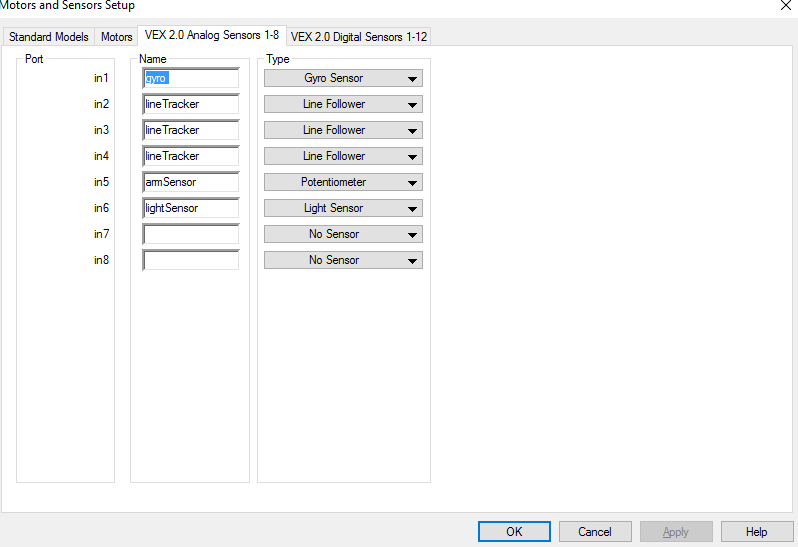
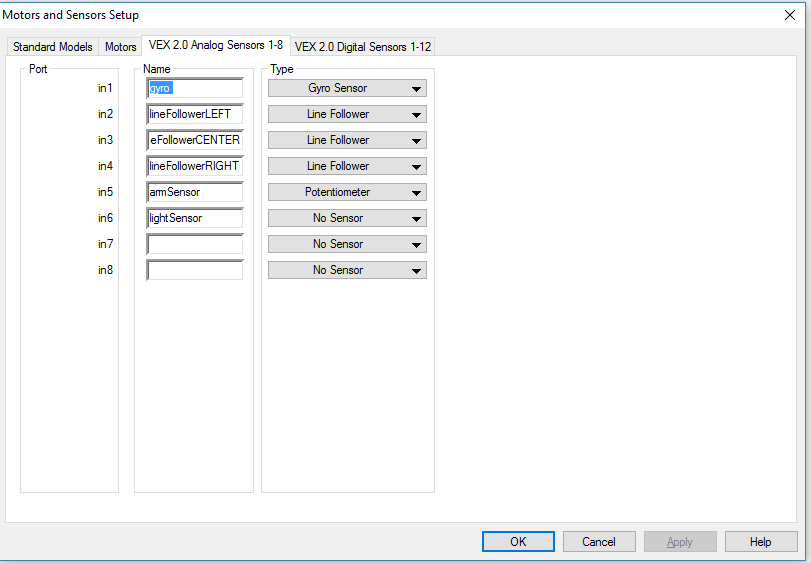
Added stuff for assignment 5 and 6

diff --git a/Verkefni_6_skil/verkefni6.c b/Verkefni_6_skil/verkefni6.c
@@ -1,0 +1,126 @@
+#pragma config(Sensor, in1,    gyro,           sensorGyro)
+#pragma config(Sensor, in2,    lineFollowerLEFT, sensorLineFollower)
+#pragma config(Sensor, in3,    lineFollowerCENTER, sensorLineFollower)
+#pragma config(Sensor, in4,    lineFollowerRIGHT, sensorLineFollower)
+#pragma config(Sensor, in5,    armSensor,      sensorPotentiometer)
+#pragma config(Sensor, in6,    lightSensor,    sensorNone)
+#pragma config(Sensor, dgtl1,  leftEncoder,    sensorQuadEncoder)
+#pragma config(Sensor, dgtl3,  rightEncoder,   sensorQuadEncoder)
+#pragma config(Sensor, dgtl5,  touchSensor,    sensorTouch)
+#pragma config(Sensor, dgtl6,  sonarSensor,    sensorSONAR_cm)
+#pragma config(Motor,  port2,           clawMotor,     tmotorVex269, openLoop)
+#pragma config(Motor,  port3,           leftMotor,     tmotorVex269, openLoop, reversed, encoder, encoderPort, dgtl1, 1000)
+#pragma config(Motor,  port4,           neckMotor,     tmotorVex269, openLoop)
+#pragma config(Motor,  port5,           rightMotor,    tmotorVex269, openLoop, encoder, encoderPort, dgtl3, 1000)
+//*!!Code automatically generated by 'ROBOTC' configuration wizard               !!*//
+
+task checkIfStopped()
+{
+	while(true){
+		if(vexRT[Btn8U] == 1)
+		{
+			StopAllTasks();
+		}
+	}
+}
+void stopMotors(){
+	motor[rightMotor] = 0; //Stop the right motor
+  motor[leftMotor] = 0; //Stop the left motor
+  wait1Msec(1500); //For 1 second
+};
+
+void claw(int value){
+		if(value == 60){
+			motor[clawMotor] = 60;
+			wait1Msec(1000);
+		}
+		else{
+			motor[clawMotor] = -60;
+			wait1Msec(1000);
+		}
+		motor[clawMotor] = 0;
+}
+void followLine()
+{
+	int threshold = 2500;
+	while(true)
+	{
+		while(SensorValue(sonarSensor) > 9 || SensorValue(sonarSensor) == -1)
+		{
+			// RIGHT sensor sees dark:
+			if(SensorValue(lineFollowerRIGHT) > threshold)
+			{
+				// counter-steer right:
+				motor[leftMotor]  = 50;
+				motor[rightMotor] = 00;
+			}
+
+			// CENTER sensor sees dark:
+			if(SensorValue(lineFollowerCENTER) > threshold)
+			{
+				// go straight
+				motor[leftMotor]  = 50;
+				motor[rightMotor] = 50;
+			}
+
+			// LEFT sensor sees dark:
+			if(SensorValue(lineFollowerLEFT) > threshold)
+			{
+				// counter-steer left:
+				motor[leftMotor]  = 00;
+				motor[rightMotor] = 50;
+			}
+		}
+		if(SensorValue(sonarSensor) < 12)
+		{
+			break;
+		}
+	}
+}
+void turnaround()
+{
+	motor[leftMotor] = 60;
+	motor[rightMotor] = -60;
+	wait1Msec(1000);
+}
+
+
+//+++++++++++++++++++++++++++++++++++++++++++++| MAIN |+++++++++++++++++++++++++++++++++++++++++++++++
+task main()
+{
+
+	StartTask(checkIfStopped);
+	claw(60);
+
+	while(SensorValue(sonarSensor) > 9)
+	{
+		followLine();
+	}
+
+	stopMotors();
+	claw(-60);
+	while(SensorValue(armSensor) < 400)
+  {
+  	motor[neckMotor] = -30;
+  }
+  motor[neckMotor] = 0;
+
+	turnaround();
+
+	while(SensorValue(sonarSensor) > 9)
+	{
+		followLine();
+	}
+
+	stopMotors();
+  while(SensorValue(armSensor) > 150)
+  {
+  	motor[neckMotor] = 30;
+  }
+  motor[neckMotor] = 0;
+
+	claw(60);
+
+	while(true){}
+}
+//++++++++++++++++++++++++++++++++++++++++++++++++++++++++++++++++++++++++++++++++++++++++++++++++++++

diff --git a/Verkefni_5_skil/Verkefni5.c b/Verkefni_5_skil/Verkefni5.c
@@ -1,0 +1,66 @@
+#pragma config(Sensor, in1,    gyro,           sensorGyro)
+#pragma config(Sensor, in2,    lineFollowerLEFT, sensorLineFollower)
+#pragma config(Sensor, in3,    lineFollowerCENTER, sensorLineFollower)
+#pragma config(Sensor, in4,    lineFollowerRIGHT, sensorLineFollower)
+#pragma config(Sensor, in5,    armSensor,      sensorPotentiometer)
+#pragma config(Sensor, in6,    lightSensor,    sensorNone)
+#pragma config(Sensor, dgtl1,  leftEncoder,    sensorQuadEncoder)
+#pragma config(Sensor, dgtl3,  rightEncoder,   sensorQuadEncoder)
+#pragma config(Sensor, dgtl5,  touchSensor,    sensorTouch)
+#pragma config(Sensor, dgtl6,  sonarSensor,    sensorSONAR_cm)
+#pragma config(Motor,  port2,           clawMotor,     tmotorVex269, openLoop)
+#pragma config(Motor,  port3,           leftMotor,     tmotorVex269, openLoop, reversed, encoder, encoderPort, dgtl1, 1000)
+#pragma config(Motor,  port4,           neckMotor,     tmotorVex269, openLoop)
+#pragma config(Motor,  port5,           rightMotor,    tmotorVex269, openLoop, encoder, encoderPort, dgtl3, 1000)
+//*!!Code automatically generated by 'ROBOTC' configuration wizard               !!*//
+
+task checkIfStopped()
+{
+	while(true){
+		if(vexRT[Btn8U] == 1)
+		{
+			StopAllTasks();
+		}
+	}
+}
+
+task drive()
+{
+	int threshold = 2600;
+	while(true)
+	{
+
+		// RIGHT sensor sees dark:
+		if(SensorValue(lineFollowerRIGHT) > threshold)
+		{
+			// counter-steer right:
+			motor[leftMotor]  = 60;
+			motor[rightMotor] = 00;
+		}
+
+		// CENTER sensor sees dark:
+		if(SensorValue(lineFollowerCENTER) > threshold)
+		{
+			// go straight
+			motor[leftMotor]  = 60;
+			motor[rightMotor] = 60;
+		}
+
+		// LEFT sensor sees dark:
+		if(SensorValue(lineFollowerLEFT) > threshold)
+		{
+			// counter-steer left:
+			motor[leftMotor]  = 00;
+			motor[rightMotor] = 60;
+		}
+	}
+}
+
+//+++++++++++++++++++++++++++++++++++++++++++++| MAIN |+++++++++++++++++++++++++++++++++++++++++++++++
+task main()
+{
+	StartTask(checkIfStopped);
+	StartTask(drive);
+ 	while(true){}
+}
+//++++++++++++++++++++++++++++++++++++++++++++++++++++++++++++++++++++++++++++++++++++++++++++++++++++
